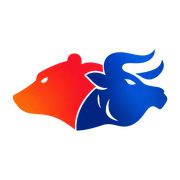
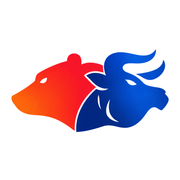
Updated project

diff --git a/app/layout.tsx b/app/layout.tsx
@@ -14,18 +14,19 @@ const geistMono = Geist_Mono({
 });
 
 export const metadata: Metadata = {
+  metadataBase: new URL("https://academy.thesafetrader.in"),
   title: "2-Day Live Forex Trading Masterclass | The Safe Trader Academy",
   description:
     "Learn the fundamentals of currency markets, chart analysis, and risk management in a 2-day live educational masterclass by The Safe Trader Academy.",
   icons: {
     icon: [
-      { url: "/favicon.ico" },
-      { url: "/favicon-32x32.png", sizes: "32x32", type: "image/png" },
-      { url: "/favicon-16x16.png", sizes: "16x16", type: "image/png" },
-      { url: "/icon.png", sizes: "512x512", type: "image/png" },
+      { url: "/favicon.ico?v=2" },
+      { url: "/favicon-32x32.png?v=2", sizes: "32x32", type: "image/png" },
+      { url: "/favicon-16x16.png?v=2", sizes: "16x16", type: "image/png" },
+      { url: "/icon.png?v=2", sizes: "512x512", type: "image/png" },
     ],
-    shortcut: "/favicon.ico",
-    apple: "/apple-icon.png",
+    shortcut: "/favicon.ico?v=2",
+    apple: "/apple-icon.png?v=2",
   },
 };
 

diff --git a/app/page.tsx b/app/page.tsx
@@ -431,7 +431,7 @@ export default function Home() {
             onClick={closeMenu}
           >
             <Image
-              src="/safe-trader-logo.png"
+              src="/safe-trader-logo-v2.png"
               alt="The Safe Trader Academy"
               width={185}
               height={95}
@@ -991,7 +991,7 @@ export default function Home() {
                   aria-label="The Safe Trader Academy YouTube channel"
                 >
                   <Image
-                    src="/safe-trader-logo.png"
+                    src="/safe-trader-logo-v2.png"
                     alt="The Safe Trader Academy"
                     width={72}
                     height={72}

diff --git a/app/thank-you/page.tsx b/app/thank-you/page.tsx
@@ -26,10 +26,10 @@ export default function ThankYouPage() {
         <div className="thank-you-header-inner">
           <Link href="/" aria-label="The Safe Trader Academy home">
             <Image
-              src="/safe-trader-logo.png"
-              alt="The Safe Trader Academy"
-              width={160}
-              height={80}
+              src="/safe-trader-logo-v2.png"
+              alt="The SafeTrader — an academy for stock market"
+              width={180}
+              height={90}
               priority
               className="thank-you-logo"
             />
